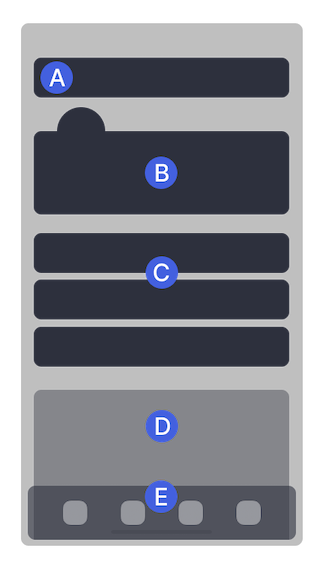
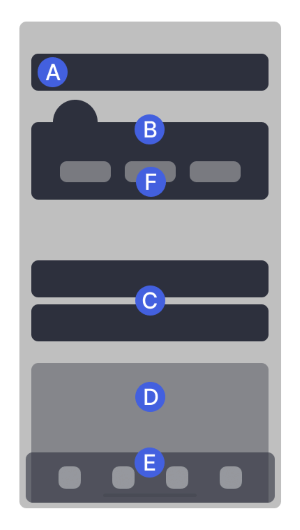
add 'tab' component to the list of mobile UI areas

diff --git a/docs/style-conventions.md b/docs/style-conventions.md
@@ -379,8 +379,8 @@ When you describe a UI interaction, use these action verbs:
 | Go to a menu or screen | Use *go to*. |
 | Click a URL | For URLs, the verb depends on the user's intent:</br>- To complete another action (for example, to download something), use *visit*.</br>- To review the information on a different article or website, use *check*. |
 | Select a single UI element | *click* (desktop and web) or *tap* (mobile). |
-| Select multiple UI elements | *choose* for desktop, web, and mobile. |
-| Select text | *select* |
+| Select one or more user-preferred options from a list | *choose* </br>Example: *Choose a name and highlight colour for your group chat*. |
+| Select one or more specific option from a list / select text | *select* </br>Example: *Select any channel with a lock icon from the channel list*. |
 | Acion on checkboxes | *check* the [UI label] box (to enable) / *uncheck* the [UI label] box (to disable). |
 | Go to previous screen | Use *return*. |
 | Swipe element | Use *swipe* [left or right] for desktop, web, and mobile. |

diff --git a/docs/terminology.md b/docs/terminology.md
@@ -46,6 +46,7 @@ This picture describes the main user interface areas for Status Mobile.
 | C | [content] list, where [content] depends on the list of elements.</br>For example, *Contacts list*, *Communities list*, and so on. |
 | D | action sheet, when the list of actions comes from the Status app / share sheet, when the list of actions comes from the operating system. |
 | E | tab bar |
+| F | tabs |
 
 ### Status Desktop and Status Web user interface areas
 
